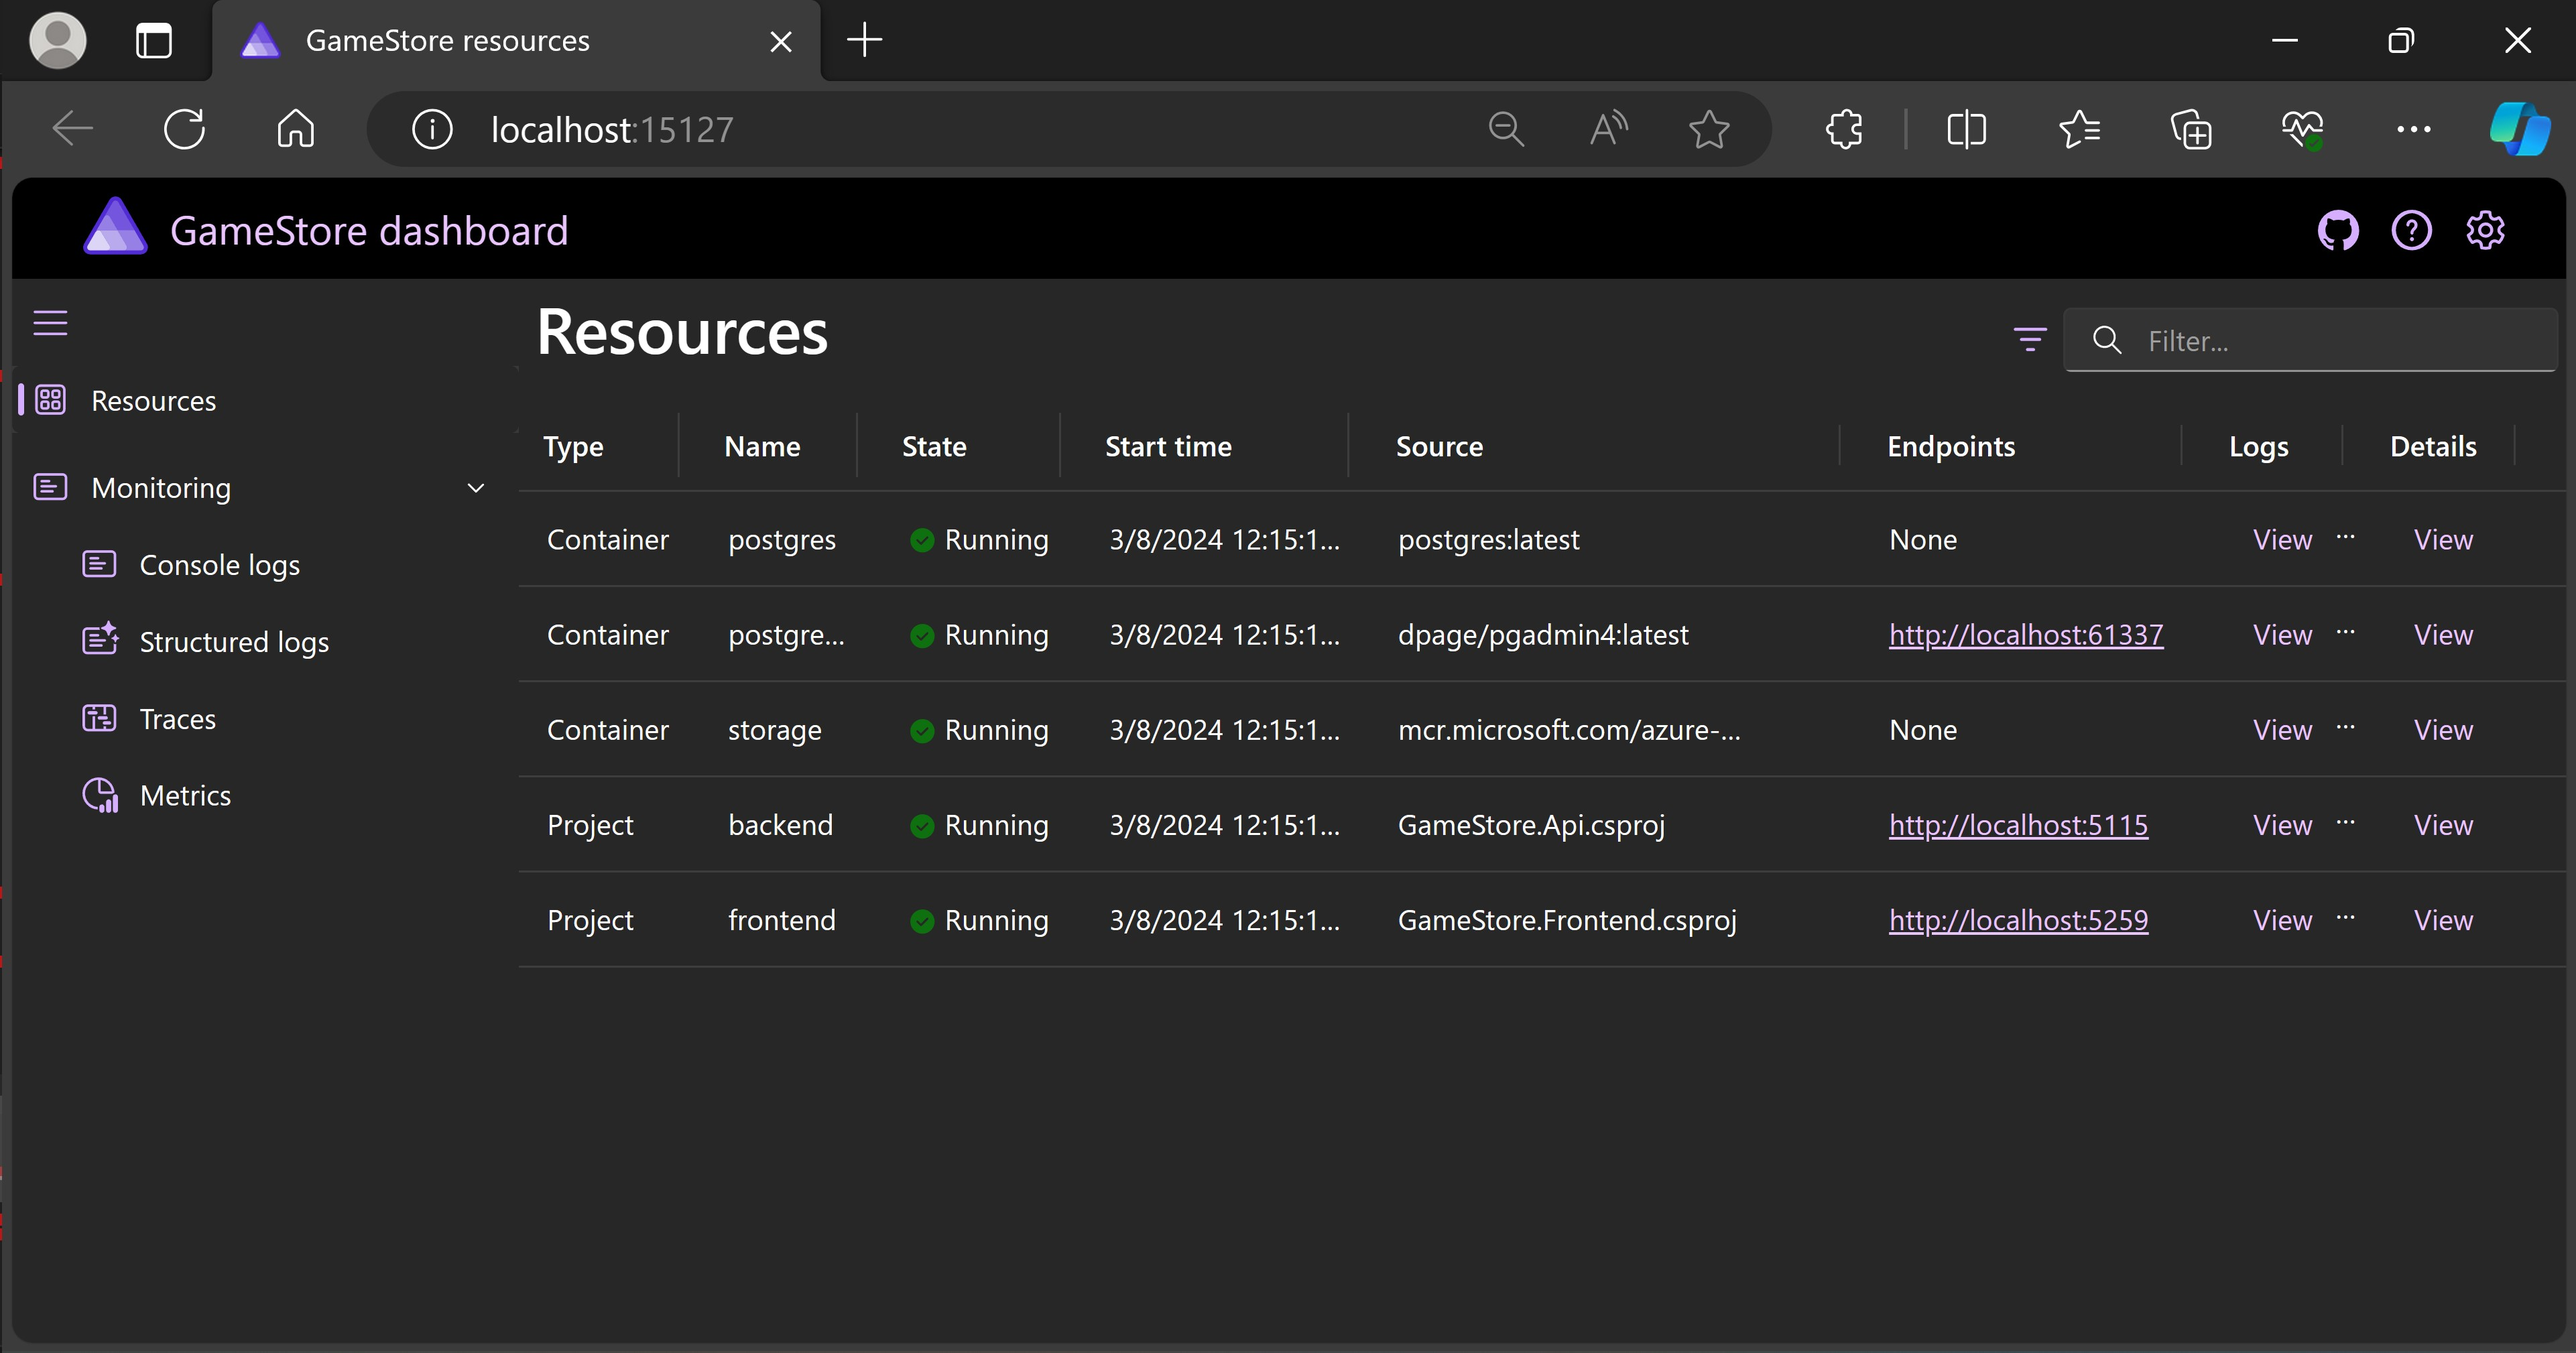
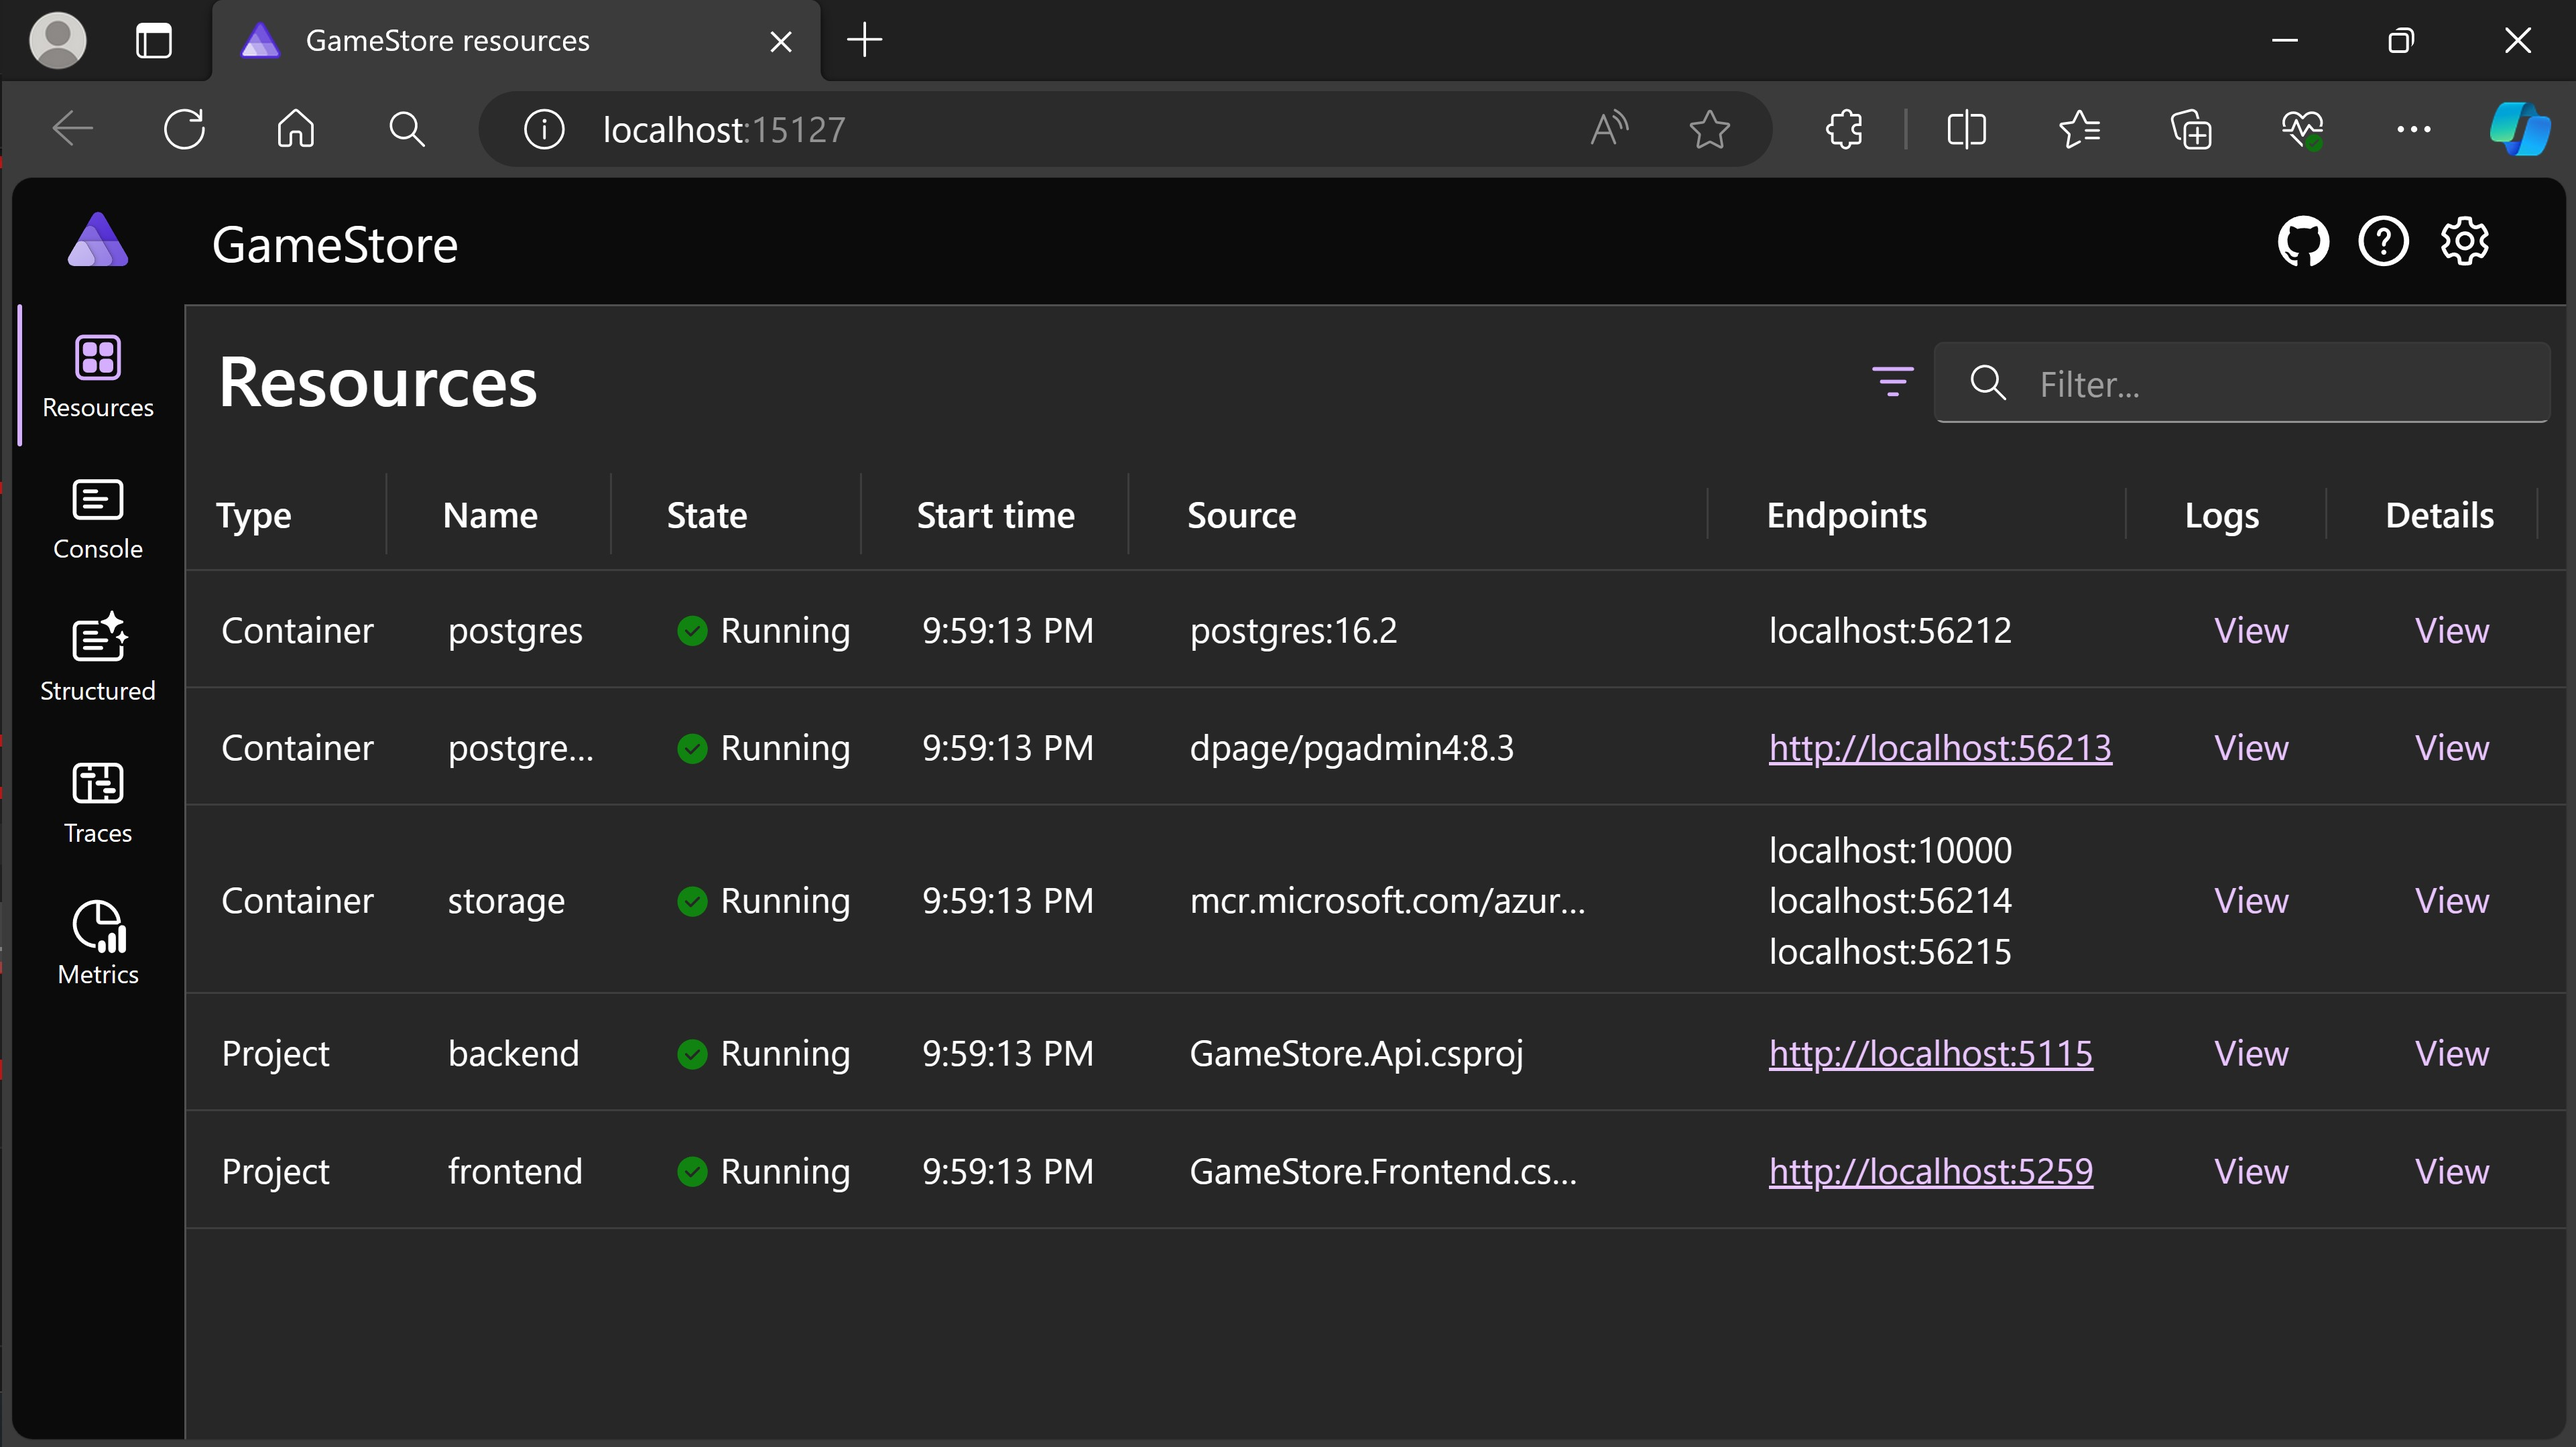
Update Aspire post to Preview 4

diff --git a/_posts/2024-03-09-Going-Cloud-Native-With-Dotnet-Aspire.md b/_posts/2024-03-09-Going-Cloud-Native-With-Dotnet-Aspire.md
@@ -131,14 +131,17 @@ var builder = DistributedApplication.CreateBuilder(args);
 
 // Add a PostgreSQL container, with a GameStore database, 
 // Also enable PgAdmin for easy DB management
-var postgres = builder.AddPostgresContainer("postgres")
+var postgres = builder.AddPostgres("postgres")
                       .WithPgAdmin()
                       .AddDatabase("GameStore");
 
 // Add the Azure Storage Emulator container, and enable the blob service
 // Exposing it on port 10000 makes it easy to connect from Storage Explorer
-var blobs = builder.AddAzureStorage("storage")    
-                   .UseEmulator(blobPort: 10000)
+var blobs = builder.AddAzureStorage("storage")
+                   .RunAsEmulator(container =>
+                   {
+                        container.UseBlobPort(10000);
+                   })
                    .AddBlobs("blobs");
 
 // Add our backend API, and establish the dependency on PostgreSQL
@@ -147,9 +150,9 @@ var backend = builder.AddProject<Projects.GameStore_Api>("backend")
 
 // Add the frontend UI, and establish the dependency on both 
 // the backend API and the blob service
-var frontend = builder.AddProject<Projects.GameStore_Frontend>("frontend")
-                      .WithReference(backend)
-                      .WithReference(blobs);
+builder.AddProject<Projects.GameStore_Frontend>("frontend")
+       .WithReference(backend)
+       .WithReference(blobs);
 
 builder.Build().Run();
 ```
@@ -207,9 +210,12 @@ builder.Services.AddHttpClient<GamesClient>(
 
 Here, **"blobs"** is the connection string you defined in the App Host project:
 
-```csharp{3}
-var blobs = builder.AddAzureStorage("storage")    
-                   .UseEmulator(blobPort: 10000)
+```csharp{6}
+var blobs = builder.AddAzureStorage("storage")
+                   .RunAsEmulator(container =>
+                   {
+                        container.UseBlobPort(10000);
+                   })
                    .AddBlobs("blobs");
 ```
 
@@ -241,7 +247,7 @@ info: Aspire.Hosting.DistributedApplication[0]
 info: Aspire.Hosting.DistributedApplication[0]
       Now listening on: http://localhost:15127
 info: Aspire.Hosting.DistributedApplication[0]
-      Distributed application started. Press CTRL-C to stop.
+      Distributed application started. Press Ctrl+C to shut down.
 ```
 
 Browse to that URL in your browser and you'll land here:
